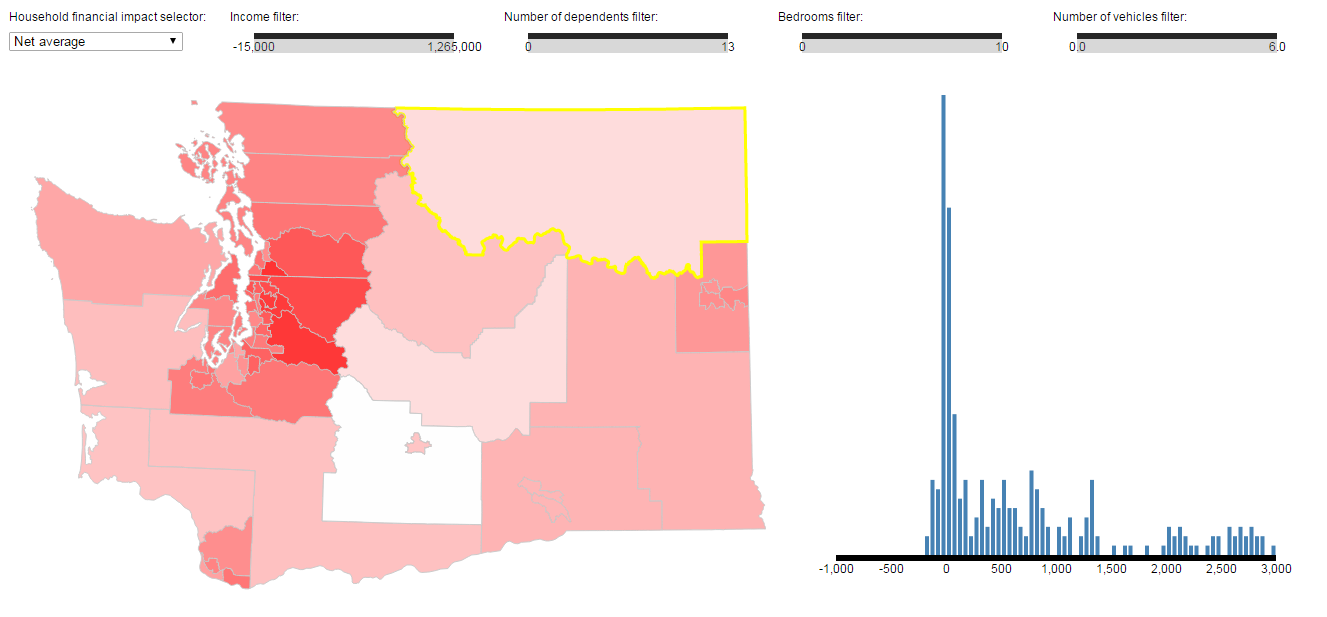
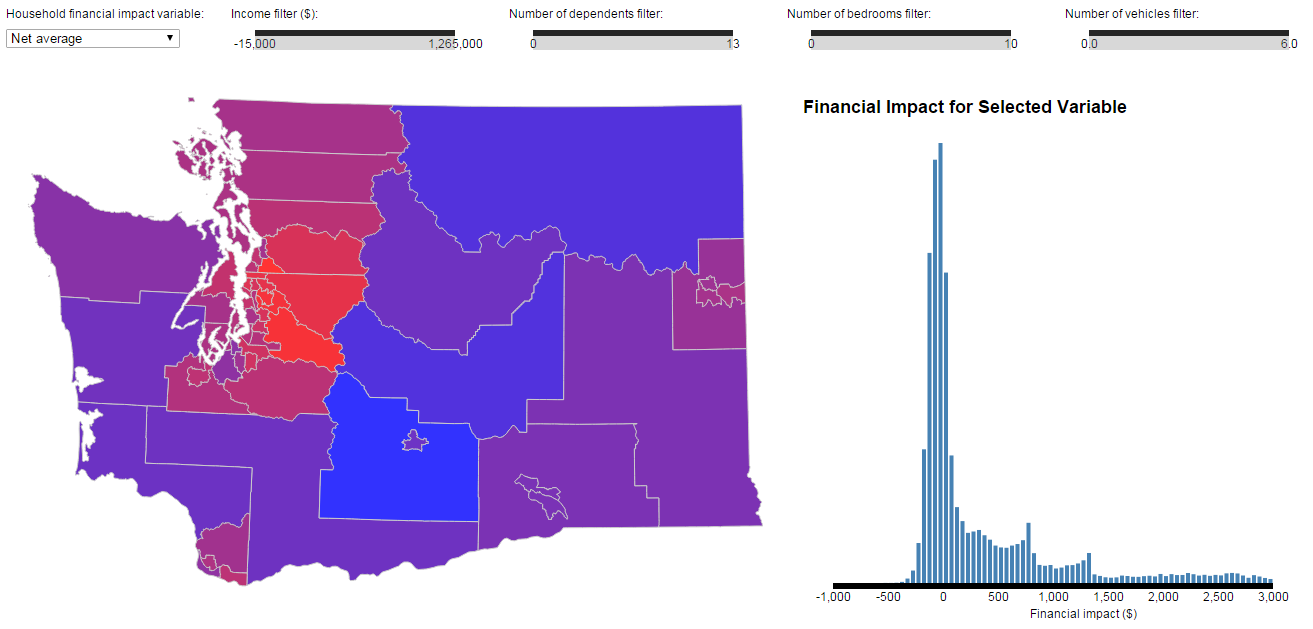
Changing styling

diff --git a/javascripts/barplot.js b/javascripts/barplot.js
@@ -32,6 +32,7 @@ var barplot_generator = function(parsedDataset) {
 
     d3.selectAll(".bar").remove();
     d3.selectAll("#bar-x-axis").remove();
+    d3.selectAll("#histogram_label").remove();
     
     //document.getElementById("menu").style.visibility="visible"; 
 
@@ -124,17 +125,19 @@ var barplot_generator = function(parsedDataset) {
 
     detail.append("text")
         .attr("class", "x label")
-        .attr("text-anchor", "end")
+        .attr("id", "histogram_label")
+        .attr("text-anchor", "middle")
         .attr("x", 250)
         .attr("y", height + 35)
-        .text("financial impact ($)");
+        .text("Financial impact ($)");
 		
 			var tip = d3.tip()
           .attr('class', 'd3-tip')
           .offset([-10, 0])
           .html(function(d) {
-            return "<strong style='color:white'>Number of People:</strong> <span style='color:white'>" + d.y +          
-            "</span><br><strong style='color:white'>Household Financial Impact:</strong> <span style='color:white'>" + d.x;
+            return "<span style='color:white'>Number of sampled households:</span> <strong style='color:white;text-decoration: underline;font-size: 14px'>" + d.y +          
+            "</strong><br><span style='color:white'>Financial impact range for this bin:</span> <strong style='color:white;text-decoration: underline;font-size: 14px'> $" 
+            + d.x + " to $" + (d.x + d.dx) + "</strong>";
           
           });
 		  

diff --git a/javascripts/mapplot.js b/javascripts/mapplot.js
@@ -94,8 +94,13 @@ var map_generator = function(parsedDataset){
           .attr('class', 'd3-tip')
           .offset([-10, 0])
           .html(function(d) {
-            return "<strong style='color:white'>Name:</strong> <span style='color:white'>" + d.properties.name +          
-            "</span><br><strong style='color:white'>PUMA:</strong> <span style='color:white'>" + d.properties.puma;
+            return "<span style='color:white'>Location:</span>" + 
+            "<br><strong style='color:white;text-decoration: underline;font-size: 14px'>" + d.properties.name + "</strong>" + 
+            "<br><br><span style='color:white'>PUMA:</span>" + 
+            "<br><strong style='color:white;text-decoration: underline;font-size: 14px'>" + d.properties.puma + "</strong>" + 
+            "<br><br><span style='color:white'>Average financial impact </span>" + 
+            "<br><span style='color:white'>for selected variable: </span><br>" + 
+            "<strong style='color:white;text-decoration: underline;font-size: 14px'>$" + (averagesByPuma[d.properties.puma]).round() + "</strong>";
           
           });
 

diff --git a/combinedVis.html b/combinedVis.html
@@ -5,7 +5,7 @@
 <body>
 <script src="http://d3js.org/d3.v3.min.js"></script>
 <script type="text/javascript" src="javascripts/global_init.js"></script>
-<h1>Carbon Tax Statewide Impact Visualization</h1>
+<h1>Visualizing the Statewide Impact of a Revenue-Neutral Carbon Tax</h1>
 <h2>Some description</h2>
 <div id="selectionboxes">
   <table style="width:100%">
@@ -112,7 +112,7 @@
 
 <div class="container">
 	<div id="barplot">
-    <h2><centering>Financial Impact</centering></h2>
+    <h2><centering>Financial Impact for Selected Variable</centering></h2>
 		<!-- <h3><center>Net tax in area selected</center></h3> -->
 		<svg id="barplot_svg">
 		</svg>

diff --git a/style/style.css b/style/style.css
@@ -71,9 +71,9 @@ svg {
 
 .d3-tip {
   line-height: 1;
-  font-weight: bold;
+  /*font-weight: bold;*/
   padding: 12px;
-  padding-right: 50px;
+  padding-left: 40px;
   background: rgba(0, 0, 0, 0.8);
   color: #fff;
   border-radius: 2px;
